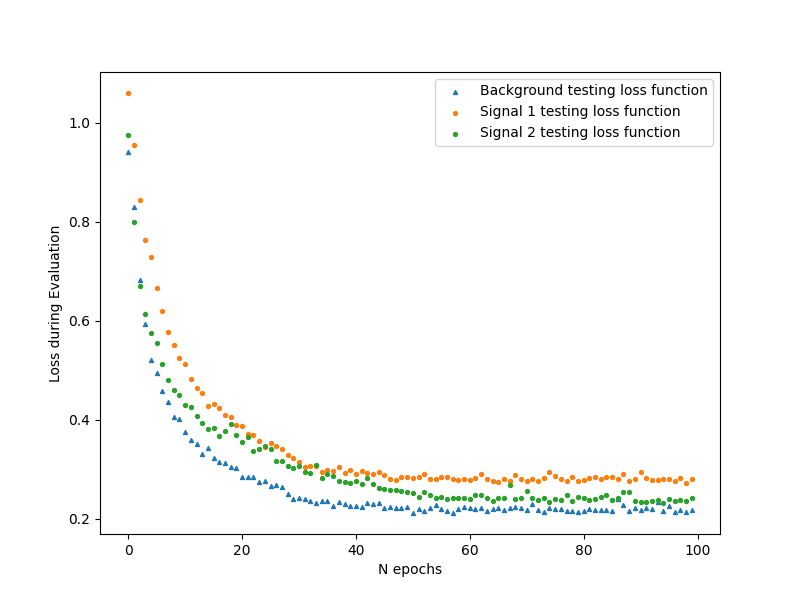
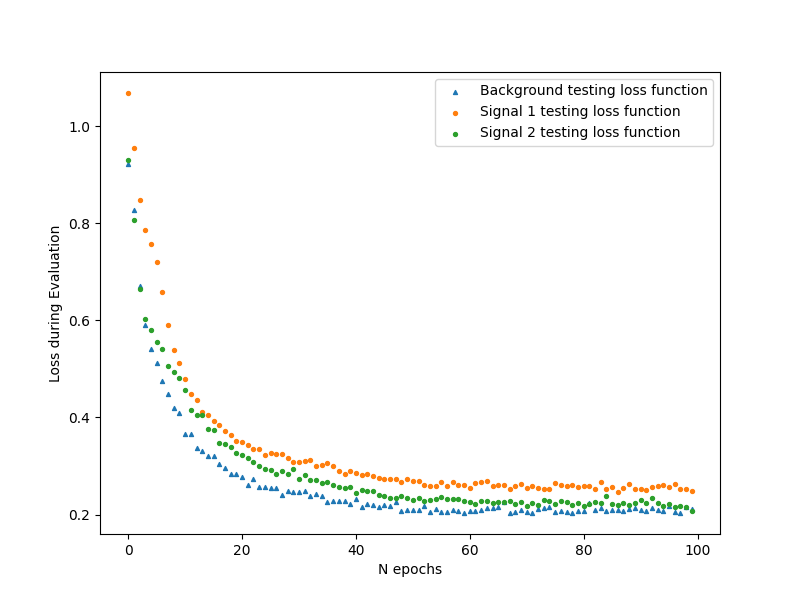
Training with standard scaling and 21, 14 layer dimensions

diff --git a/autoencoder.py b/autoencoder.py
@@ -36,9 +36,9 @@ class AutoEncoder(nn.Module):
         # 42 ==> 14
         self.encoder = nn.Sequential(
             nn.Linear(input_dim, mid_dim),
-            nn.LeakyReLU(),
+            nn.GELU(),
             nn.Linear(mid_dim, latent_dim),
-            nn.LeakyReLU()
+            nn.GELU()
         )
         
         # Building an linear decoder with Linear
@@ -46,7 +46,7 @@ class AutoEncoder(nn.Module):
         # 14 ==> 42
         self.decoder = nn.Sequential(
             nn.Linear(latent_dim, mid_dim),
-            nn.LeakyReLU(),
+            nn.GELU(),
             nn.Linear(mid_dim, input_dim),
             # nn.ReLU() # MinMax Scaling 
             nn.PReLU() # Standard Scaling
